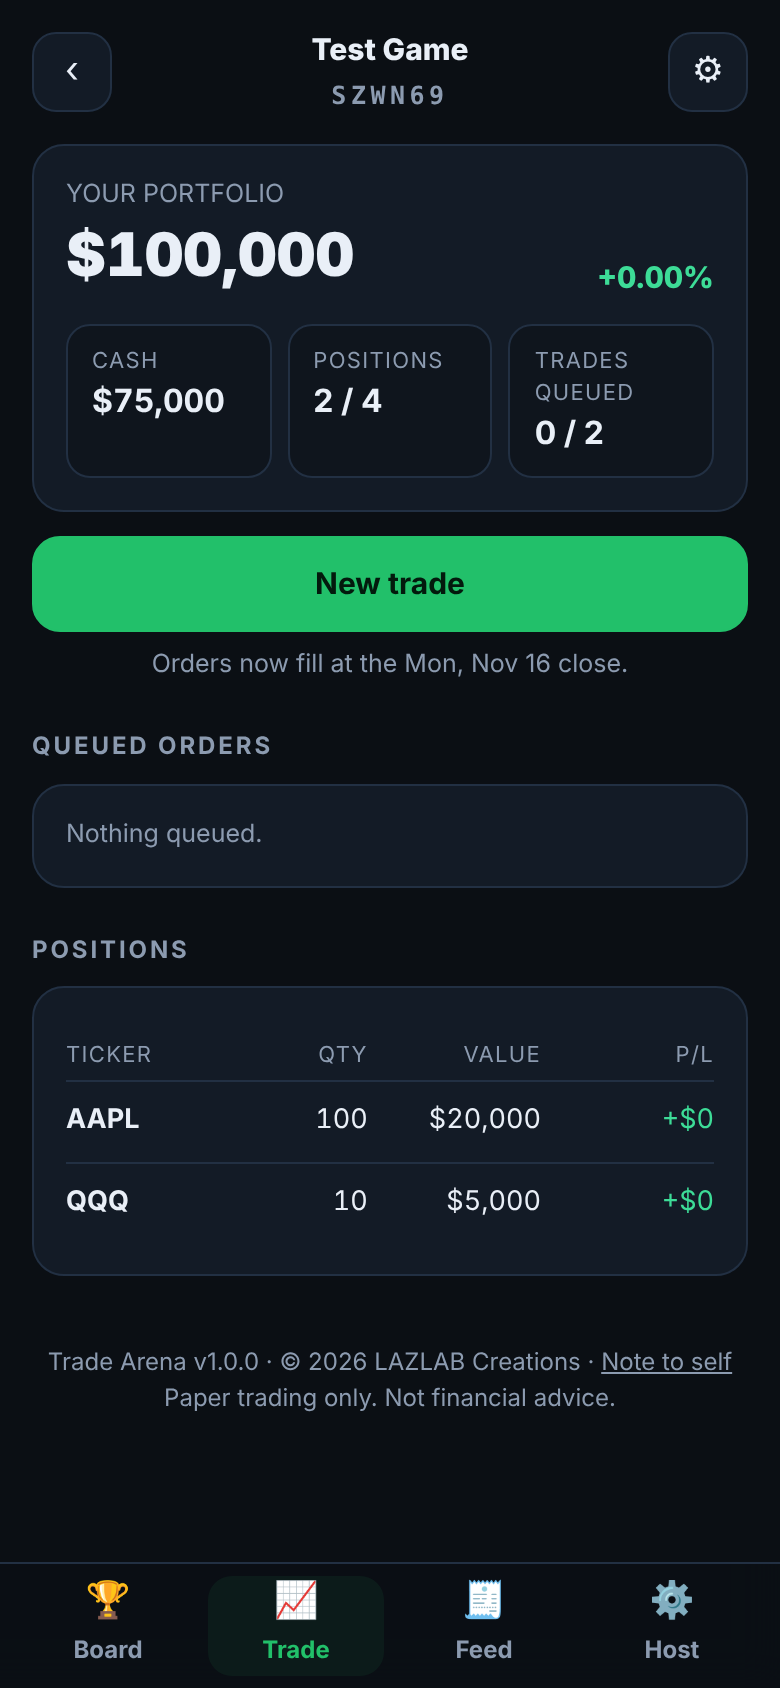
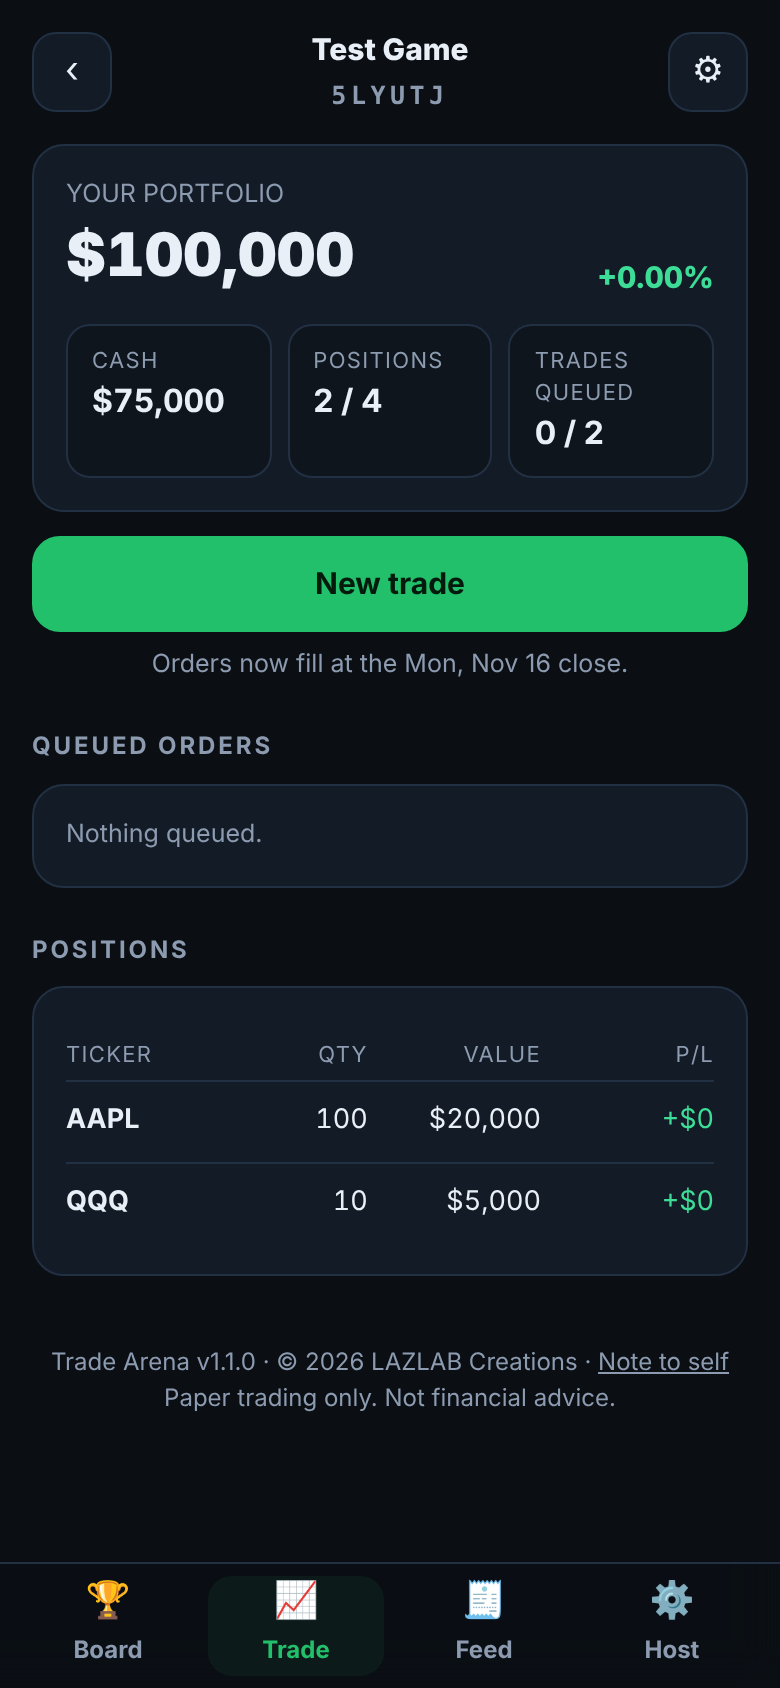
Add 1-day game (v1.1.0)
Claude-Session: https://claude.ai/code/session_01XbY6KJrmjtQR5KoU1WCBFq

diff --git a/app/index.html b/app/index.html
@@ -250,7 +250,7 @@ function retPct(eq, base) { return (eq / base - 1) * 100; }
 // ══════════════════════════════════════════
 //  HELPERS + MARKET DATA
 // ══════════════════════════════════════════
-const APP_VERSION = '1.0.0';
+const APP_VERSION = '1.1.0';
 const $ = (s, r) => (r || document).querySelector(s);
 const esc = s => String(s == null ? '' : s).replace(/[&<>"']/g, c => ({ '&': '&amp;', '<': '&lt;', '>': '&gt;', '"': '&quot;', "'": '&#39;' }[c]));
 const lsGet = (k, d) => { try { const v = localStorage.getItem(k); return v == null ? d : JSON.parse(v); } catch (e) { return d; } };
@@ -689,9 +689,14 @@ async function startGame() {
   const first = fillDayFor(now);
   let endDay = meta.endDay;
   if (!endDay) {
-    let e = addDays(dayKey(now), meta.dur || 14);
-    while (!isWeekday(e)) e = addDays(e, -1);
-    endDay = e;
+    if (meta.dur === 1) {
+      // 1-day game: orders fill at the first close, and the score is the move to the next close
+      endDay = nextWeekday(first);
+    } else {
+      let e = addDays(dayKey(now), meta.dur || 14);
+      while (!isWeekday(e)) e = addDays(e, -1);
+      endDay = e;
+    }
   }
   if (endDay < first) throw new Error('The end date is before the first trading day. Pick a later end date.');
   const upd = { 'meta/status': 'active', 'meta/startedAt': now, 'meta/firstDay': first, 'meta/endDay': endDay, 'meta/lastSettled': null };
@@ -951,7 +956,7 @@ function viewCreate() {
     '<label class="f">YOUR NAME</label><input class="in" id="c-me" maxlength="20" value="' + esc(lsRaw('ta_me') || '') + '" placeholder="Host name">' +
     '<label class="f">STARTING CASH (EVERYONE GETS THE SAME)</label><input class="in num" id="c-cash" type="number" inputmode="numeric" min="1000" max="10000000" step="1000" value="' + (CF.cash || 100000) + '">' +
     '<div class="seg" style="margin-top:8px" id="c-cash-chips">' + [10000, 25000, 50000, 100000, 1000000].map(v => '<button type="button" data-act="cashChip" data-v="' + v + '">' + money0(v) + '</button>').join('') + '</div>' +
-    '<label class="f">TIME FRAME</label><div class="seg" id="c-dur">' + [[7, '1 week'], [14, '2 weeks'], [30, '1 month'], [90, '3 months'], [0, 'Custom']].map(d => '<button type="button" data-act="durChip" data-v="' + d[0] + '" class="' + (CF.dur === d[0] ? 'on' : '') + '">' + d[1] + '</button>').join('') + '</div>' +
+    '<label class="f">TIME FRAME</label><div class="seg" id="c-dur">' + [[1, '1 day'], [7, '1 week'], [14, '2 weeks'], [30, '1 month'], [90, '3 months'], [0, 'Custom']].map(d => '<button type="button" data-act="durChip" data-v="' + d[0] + '" class="' + (CF.dur === d[0] ? 'on' : '') + '">' + d[1] + '</button>').join('') + '</div>' +
     '<input class="in ' + (CF.dur === 0 ? '' : 'hide') + '" id="c-end" type="date" style="margin-top:8px" value="' + esc(CF.end || '') + '">' +
     '</div>' +
     '<div class="sec">Fair-play rules</div><div class="card">' +

diff --git a/src/50_ui.js b/src/50_ui.js
@@ -74,7 +74,7 @@ function viewCreate() {
     '<label class="f">YOUR NAME</label><input class="in" id="c-me" maxlength="20" value="' + esc(lsRaw('ta_me') || '') + '" placeholder="Host name">' +
     '<label class="f">STARTING CASH (EVERYONE GETS THE SAME)</label><input class="in num" id="c-cash" type="number" inputmode="numeric" min="1000" max="10000000" step="1000" value="' + (CF.cash || 100000) + '">' +
     '<div class="seg" style="margin-top:8px" id="c-cash-chips">' + [10000, 25000, 50000, 100000, 1000000].map(v => '<button type="button" data-act="cashChip" data-v="' + v + '">' + money0(v) + '</button>').join('') + '</div>' +
-    '<label class="f">TIME FRAME</label><div class="seg" id="c-dur">' + [[7, '1 week'], [14, '2 weeks'], [30, '1 month'], [90, '3 months'], [0, 'Custom']].map(d => '<button type="button" data-act="durChip" data-v="' + d[0] + '" class="' + (CF.dur === d[0] ? 'on' : '') + '">' + d[1] + '</button>').join('') + '</div>' +
+    '<label class="f">TIME FRAME</label><div class="seg" id="c-dur">' + [[1, '1 day'], [7, '1 week'], [14, '2 weeks'], [30, '1 month'], [90, '3 months'], [0, 'Custom']].map(d => '<button type="button" data-act="durChip" data-v="' + d[0] + '" class="' + (CF.dur === d[0] ? 'on' : '') + '">' + d[1] + '</button>').join('') + '</div>' +
     '<input class="in ' + (CF.dur === 0 ? '' : 'hide') + '" id="c-end" type="date" style="margin-top:8px" value="' + esc(CF.end || '') + '">' +
     '</div>' +
     '<div class="sec">Fair-play rules</div><div class="card">' +

diff --git a/src/40_game.js b/src/40_game.js
@@ -87,9 +87,14 @@ async function startGame() {
   const first = fillDayFor(now);
   let endDay = meta.endDay;
   if (!endDay) {
-    let e = addDays(dayKey(now), meta.dur || 14);
-    while (!isWeekday(e)) e = addDays(e, -1);
-    endDay = e;
+    if (meta.dur === 1) {
+      // 1-day game: orders fill at the first close, and the score is the move to the next close
+      endDay = nextWeekday(first);
+    } else {
+      let e = addDays(dayKey(now), meta.dur || 14);
+      while (!isWeekday(e)) e = addDays(e, -1);
+      endDay = e;
+    }
   }
   if (endDay < first) throw new Error('The end date is before the first trading day. Pick a later end date.');
   const upd = { 'meta/status': 'active', 'meta/startedAt': now, 'meta/firstDay': first, 'meta/endDay': endDay, 'meta/lastSettled': null };

diff --git a/src/20_data.js b/src/20_data.js
@@ -1,7 +1,7 @@
 // ══════════════════════════════════════════
 //  HELPERS + MARKET DATA
 // ══════════════════════════════════════════
-const APP_VERSION = '1.0.0';
+const APP_VERSION = '1.1.0';
 const $ = (s, r) => (r || document).querySelector(s);
 const esc = s => String(s == null ? '' : s).replace(/[&<>"']/g, c => ({ '&': '&amp;', '<': '&lt;', '>': '&gt;', '"': '&quot;', "'": '&#39;' }[c]));
 const lsGet = (k, d) => { try { const v = localStorage.getItem(k); return v == null ? d : JSON.parse(v); } catch (e) { return d; } };

diff --git a/app/sw.js b/app/sw.js
@@ -1,5 +1,5 @@
 // Trade Arena service worker: app shell offline, never caches prices, Firebase, or Groq.
-const CACHE = 'trade-arena-v1.0.0';
+const CACHE = 'trade-arena-v1.1.0';
 const SHELL = ['./', 'index.html', 'manifest.json', 'icon-192.png', 'icon-512.png'];
 const LIBS = ['www.gstatic.com', 'cdnjs.cloudflare.com'];
 self.addEventListener('install', e => { e.waitUntil(caches.open(CACHE).then(c => c.addAll(SHELL)).then(() => self.skipWaiting())); });

diff --git a/README.md b/README.md
@@ -31,6 +31,8 @@ A paper-trading game for you, your friends and an AI player. Everyone starts wit
 4. After 4:20 pm ET the host presses **Settle**. Prices are loaded, the AI takes its turn (using only data through the previous close), every order is validated by the same rules engine, and the leaderboard updates.
 5. At the end date the game finishes, with a winner, a chart against a SPY buy-and-hold benchmark, and an optional AI debrief.
 
+**1-day games:** choose "1 day" as the time frame for a quick round. Orders fill at the first close and the game is scored at the next close (two settles), so the result is who picked the best overnight movers.
+
 Rules enforced for everyone, human or AI: long-only, whole shares, no leverage, daily trade cap, position cap, single-stock cap. Sells run before buys when a day is settled. Pending orders are private until the close; the Feed shows everyone's trades and notes afterward.
 
 ## Set up online play (Firebase, free Spark plan)
@@ -97,6 +99,7 @@ Run `./build.sh` to rebuild `app/index.html` from `src/`, `node test/engine.test
 
 ## Changelog
 
+- **1.1.0**: added a 1-day game (fills at the first close, scored at the next close).
 - **1.0.0**: first release. Green theme and app icon, online and offline (trade card) play, AI player with Groq model picker, daily-close settling, SPY benchmark, AI debrief.
 
 &copy; 2026 LAZLAB Creations. All Rights Reserved.
